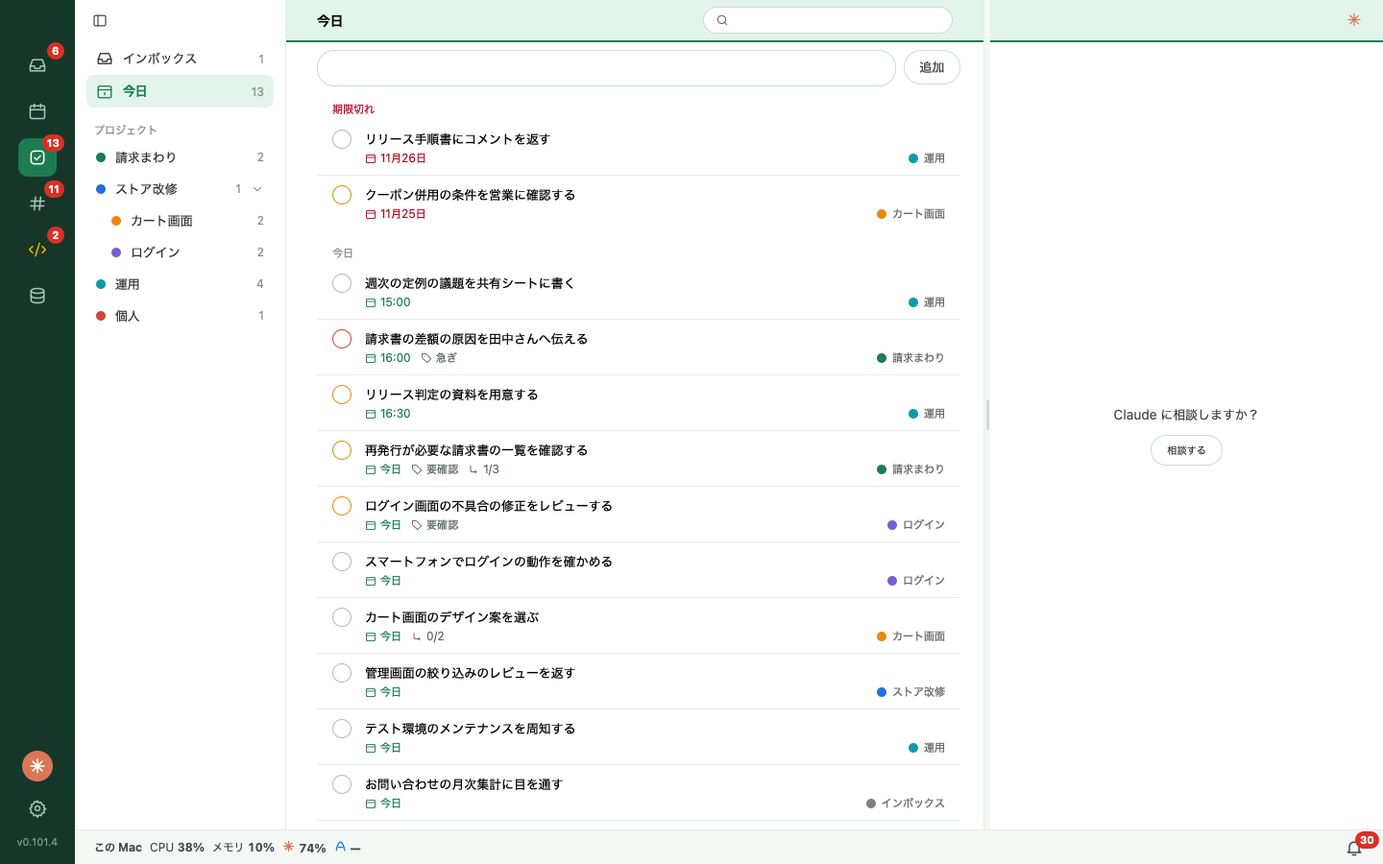
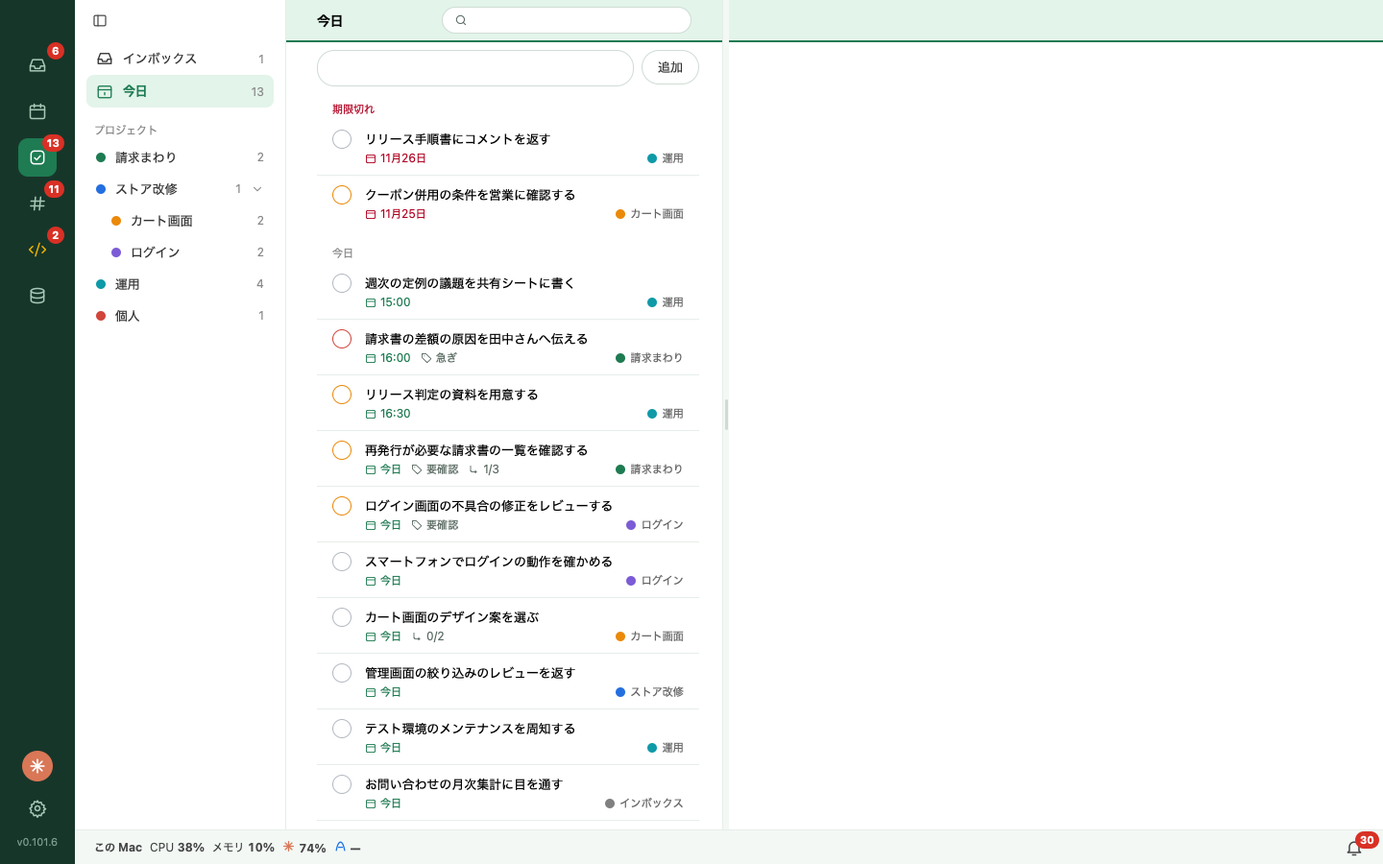
docs: v0.102.0 の CHANGELOG と features を書く
Todo 画面の右側がタスクの詳細のタブになったので、README と docs の Claude のペインの記述と、Todo の写真を直した。
This commit is v0.102.0.

diff --git a/docs/features.md b/docs/features.md
@@ -21,6 +21,7 @@ title: 機能
 - 設定の「Notion」タブで、Notion のワークスペースを連携する。「追加」で既定のブラウザが開き、ワークスペースを選んで許可する。連携したワークスペースは 1 つずつ行になり、ユーザーの名前とメールアドレス、「使える」か「再連携が要る」かを出す。再連携が要るときは、「追加」で同じワークスペースを許可し直す。行のボタンで、確認のあとに解除する（Notion 側の許可も取り消す）。トークンはキーチェーンにだけ置き、画面には出さない。Notion のページを出す画面は、まだない
 - 開発の画面の右のペインの「Jira」で、そのプロジェクトの Jira Cloud（`https://{名前}.atlassian.net`）の接続を、環境とプロジェクトごとに保存する。接続を保存していないプロジェクトで「Jira」を押すと登録の欄が出て、サイトの URL、メールアドレス、API トークンを入れて「保存」を押す。欄の上には、ほかのプロジェクトの接続（プロジェクトの名前と場所、サイト、メールアドレス）が並び、「使う」を押すと、その接続をこのプロジェクトにコピーする（API トークンも、画面に出さずにコピーする。ボードは選び直す。すでに接続のあるプロジェクトには上書きしない）。保存したあとは、バーの歯車で同じ欄を開き、変更と「削除」ができる（「閉じる」で一覧に戻る）。見せるボードもプロジェクトごとに覚える。以前の 1 つだけの接続は引き継がず、起動のたびに消す。メールアドレスがあればアカウントの API トークンで、空ならスコープ付きのトークンで、`api.atlassian.com` を通してつなぐ。トークンを空のまま保存すると、保存済みのトークンを使い続ける。「接続を試す」で、入れた値で誰としてつながるかを Jira に問い合わせ、「接続できました」とユーザーか、「接続できません」を出す（保存はしない。入れた API トークンは、成功しても失敗しても欄に残る）。トークンはキーチェーンにだけ置き、画面には出さない。自分で立てた Jira（Server、Data Center）にはつながらない
 - 開発の画面のファイル欄の上の段の「Jira」のボタンで、右のペインに Jira のスプリントとチケットの一覧を出す（そのプロジェクトの接続を保存してあるとき。保存していないときは、登録の欄を出す）。スクラムボードのスプリント（進行中と予定）ごとに、ボードのランクの順に並べる（バックログは、スプリントを選ぶ欄の最後の「バックログ」を選んだときだけ読んで出す。「すべてのスプリント」はスプリントだけで、スプリントのないボードはバックログを出す）。行は 2 段で、1 段目に題名（2 行まで）、2 段目にキー、ステータス、担当（いなければ「未割り当て」）と、右端に優先度を出す（完了のチケットは題名を薄くする）。ボード（スクラムボードが 2 つ以上あるときだけ選ぶ）、スプリント、ステータスで絞り込め、「再読み込み」で読み直す（間隔を置いた読み直しはしない）。行を 1 回押すと、作業ペインのタブでチケットを開く（タブは分割できるが、別ウィンドウには出せない。書きかけの説明かコメントがあるときは、閉じる前に確かめる）。タブには、親のキー、題名、説明、コメント（古い順）と、右にステータス、担当、スプリント、優先度、ラベル、親を出す。ステータス、担当、スプリント、優先度は、そこで押して変えられる（ステータスは、そのチケットが今選べる変更だけ）。説明は鉛筆で編集して保存でき（Jira 側で変わっていたら、上書きせず断る。Markdown で書けないものは、触っていない部分に残る）、コメントは足せる（直したり消したりはできない）。一覧のプラスから、プロジェクト、種類、スプリント、件名、説明を入れて、新しいチケットを作れる（作ったチケットは、そのタブがチケットのタブになる）
+- 開発の画面のファイル欄の上の段の「Todo」のボタンで、右のペインに Todoist のタスクを出す（プロジェクトを選ぶ欄は「今日」と「インボックス」が先で、続けて Todoist のプロジェクトが並び、「今日」から始まる。行は名前、説明の最初の行、期限で、読むだけ）。行を押すと、作業ペインのタブでそのタスクの詳細を開く（Todo 画面の詳細と同じで、メールのカードとサブタスクのつまみはない。同じタスクは 2 つ開かず、タブは分割も移動もでき、アプリを終了すると消える）。タブを右クリックして「別ウィンドウで開く」を選ぶと、そのタスクのウィンドウに移り、右端のボタンで作業ペインのタブに戻る。タスクを完了か削除したときと、Todoist から無くなったときは、タブを閉じる。タスクは、この部分を出している間と、タスクのタブを開いている間は、Orca の画面でも 10 秒ごとに読み直す
 - 全アカウントの Google Calendar の予定を、1 つの週表示にまとめて表示する（サイドメニューのカレンダーのアイコンで開く）。自分が未定と答えた予定は斜線、まだ返信していない予定は色を反転して表示する。週の始まりの曜日は、設定の「カレンダー」タブで日曜から土曜の中から選べる（初期値は日曜）
 - カレンダー画面の週表示の上の帯は Todo と同じ色で、画面の幅いっぱいに通る。左から、パネルを畳むボタン、「今日」、前後の週の矢印、「2026年11月」の形の月を並べ、右端に Claude のアイコンがある。パネルを畳んでも開いても、帯のボタンは動かない。月を押すと、その下に月のカレンダーが開き、日付を押すとその週を出す（パネルを畳んでいても使える）
 - カレンダー画面の週表示の左にパネルがあり、表示するカレンダーをチェックボックスで選ぶ。アカウントごとに、サイドバーと同じ頭文字の丸とメールアドレスの行の下に、「マイカレンダー」（自分が持ち主のカレンダー）と「他のカレンダー」（追加した他の人のカレンダー、祝日、会議室など）を字下げして並べ、チェックボックスはカレンダーの色になる。アカウントの行を押すと、そのアカウントのカレンダーを畳める。パネルの上には月のカレンダーがあり、日付を押すとその週を出す。切り替えるとすぐ週表示が変わり、選んだ状態はアプリの設定フォルダに保存する（Google 側の表示設定は書き換えない。まだ選んでいないカレンダーは Google 側の表示設定に従う）。帯の左端のボタンでパネルを畳むと、週表示が広がる。MCP サーバーの list_events も、ここで選んだカレンダーだけを読む
@@ -32,7 +33,8 @@ title: 機能
 - Todoist のタスクを、プロジェクト別（Todoist と同じ親子関係でネストする）と「今日」の一覧で表示し、完了・追加・編集（説明とサブタスクを含む）する。説明は Markdown で表示し、10 行を超える説明は 10 行目で折りたたんで「… 続きを表示（残り n 行）」で全文を出し、押すと編集して「保存」で登録する。「今日」で追加した、日付の無いタスクは期限が今日になる。期限は月のカレンダーから選べる（今日は緑の輪で囲む）。一覧の行は 3 段で、タスク名、説明の 1 行目（URL は下線）、期限・ラベル・サブタスクの数（「今日」の一覧では右端にプロジェクト）の順に出す。サブタスクは一覧の行の左のトグルで開閉する。詳細画面の右にプロジェクトと日付を出し、日付はマウスを乗せると出る × で消せる。サブタスクの詳細には、名前の上に直接の親タスクを出し、↩ の「親タスク」で親を開く（左の丸いチェックで、親タスクを完了にできる）。親に説明があれば、親の名前の下にその説明をいつも出す（3 行目で切って「…」を付ける。文字は選んでコピーできる）。詳細画面の右の「ラベル」には、タスクのラベルを色の点と名前で並べ、× で外せる。＋で出る欄で、ラベルを絞り込んでタスクに付け外しし、無い名前は新しく作って付けられる。詳細画面の右上の「編集」メニューから、タスクのリンクや説明（Markdown のまま）をコピーしたり、タスクを削除したりできる（削除は二度押す）。説明は、文字を選んでコピーでき（選んでも編集は始まらない）、マウスを乗せると右上に出るコピーのアイコンでもコピーできる。一覧の行にマウスを乗せると、詳細を開かずに名前・期限・プロジェクトを変えられ、行の左端をドラッグして、左のプロジェクトへ移したり、別のタスクの行に落としてそのタスクのサブタスクにしたりすることもできる（落とせる行は枠で示す。自分自身、自分のサブタスク、今の親には落とせない）。サブタスクは、行にマウスを乗せると出る「親タスクから外す」ボタンか、今いるプロジェクトへのドラッグで、親から外して単独のタスクに戻せる。詳細画面のサブタスクの行（未完了のもの）も、一覧の行と同じく、マウスを乗せると出るボタンとドラッグで、別のプロジェクトへ移す、親から外す、詳細のほかのサブタスクの下へ入れる、ができる。詳細画面の下には、タスクのコメント（投稿者、日時、Markdown の本文、添付ファイル）を一覧し、コメントの追加と、ファイル 1 つ（100 MB まで）の添付ができる（⌘Enter か送信ボタンで送り、Enter は改行になる）。受信トレイのスレッドから「Todo にする」でタスクを作る。Todoist に接続できないときは、前回取得した内容を表示する（Todoist の個人 API トークンを使う。サイドメニューの Todo のアイコンで開き、期限（日付と時刻。時刻の無い日付は 0 時）が来た未完了の件数をそのアイコンに表示する。期限の無いタスクは数えない。接続の状態の確認と解除は、設定の「Todoist」タブで行う。一覧の見出しの ✳ のアイコンから、要約プロンプトの画面を開ける）
 - Todo 画面の左のプロジェクトを右クリックすると、「移動」「アーカイブ」「削除」のメニューが出る（「インボックス」と「今日」には出ない）。「アーカイブ」はすぐにアーカイブする（タスクは Todoist に残る）。「削除」は確認のあとで、プロジェクトをセクションとタスクごと完全に消す（Todoist でも元に戻せない）。「移動」では「一番上の階層」と移せるプロジェクトが並び、選んだプロジェクトの最後のサブプロジェクト（「一番上の階層」なら一番上の最後）になる。プロジェクトの行をドラッグして別のプロジェクトに落としても、そのサブプロジェクトになり、見出し「プロジェクト」に落とすと一番上の階層に移る（自分自身、自分の下のプロジェクト、今の親には落とせない）。どれも、サブプロジェクトも一緒に動く。開いているプロジェクトをアーカイブするか消すと、一覧は「今日」に戻る
 - Todo 画面の見出しの右に、検索欄がいつもある（虫眼鏡のアイコンと、打つと出る × のボタン）。打つのを止めて 0.12 秒たつと、全プロジェクトの未完了のタスクを、名前、説明、ラベルから探し（打った語をすべて含むもの。大文字と小文字は区別しない。完了したタスクは探さない。Todoist には問い合わせず、最後に読み込んだタスクから探す）、一覧の代わりに「全プロジェクトで N 件」と結果の行を出す。行は「今日」の一覧と同じ形で、プロジェクトの名前が付き、当たった文字は色を付けて太字で出す（説明は、当たった行を出す）。完了、名前と日付の編集、移動は、一覧と同じに使える。行を押すと詳細が開き、戻ると結果に戻る。空にするか × を押すと、見ていた一覧に戻る。左のプロジェクトを選ぶと、検索を消してその一覧を出す。見出しの右の検索欄は、トークンの入力欄と下書きのページのあいだは出さない
-- Todo 画面の右側は、トークンの入力欄と下書きのページのあいだを除いて、いつも開いていて、2 段になっている。1 段目は、左の見出しと同じ淡い色の帯で、右端に Claude のアイコンだけがあり、押すたびに Claude のペインを開け閉めする。2 段目は Claude の見出しと操作で、その下が中身になる。右側は Claude のペインだけで、幅は仕切りで画面の 30% から 45% まで変えられる（最初はいちばん狭い画面の 30%）。左の見出しには、Todo そのものの操作（一覧のボタン、戻るボタン、見出し、タスクを開いているあいだの「Orca に渡す」、「編集」）が残る。Claude のペインは、閉じているあいだ「Claude に相談しますか？」と「相談する」だけを出し、Claude Code は動かない（Todo 画面を開いたときは閉じている）。「相談する」か Claude のアイコンで開くと、見出しの「Claude」と「やり直す」の下に Claude Code のターミナルを出して起動し、アイコンでもう一度閉じると Claude Code を終える（「やり直す」で Claude Code を終えて新しく始める）。Claude Code は、`tsunagiai-mcp` で Todoist のプロジェクトとタスクを読み（聞かずに読む）、タスクを足す（足すたびに、ターミナルで聞かれる）。足したタスクは Todo の一覧に出る。Claude Code に渡すのは `tsunagiai-mcp` だけで、組み込みの道具とスキルは渡さない。ペインの案のカードと、頼みを書く欄とモデルと effort の選択欄、「クリア」は無い。窓が狭く、タスクの列が詳細の 2 列の幅に足りないときは、Claude のペインをタスクの下に置き（プロジェクトの一覧は左に残る）、Claude のアイコンはタスクの見出しの「編集」の右に移る。そのときの仕切りは横向きで、ペインの高さを画面の 30% から 45% まで変えられる。窓を広げると右に戻る。Claude Code を使えるときだけ
+- Todo 画面の右側は、タスクの詳細のタブを並べる。左の一覧はいつも残り、行（プロジェクトの一覧、「今日」、検索の結果）を押すと、そのタスクが右のタブで開く（サブタスクの行と親タスクのチップ、フッターの通知のペインの Todo の行も同じ。同じタスクのタブは 2 つ作らず、あるタブを選ぶ。タブのあるタスクの行は名前を太字で出す。戻るボタンはない）。タブの名前はタスクの名前で、× で閉じると、あとのタブ、なければ前のタブを選ぶ。タスクを完了か削除したときと、Todoist から無くなったとき（読み直しで消えた、プロジェクトごとアーカイブか削除された）も、そのタブは閉じる。タブはアプリを終了すると消える。上の帯の右端には、タブを選んでいるあいだ、「Orca に渡す」と「編集」が出る。右側の幅は仕切りで画面の 35% から 65% まで変えられ（最初は 50%）、窓が狭くてタスクの列が 460px に足りなくなるときは、一覧の下に回って高さを変える。トークンの入力欄と下書きのページのあいだは出さず、戻るとタブは残っている。Todo 画面の Claude のペインは、なくした。Claude Code が `tsunagiai-mcp` でタスクを読み、足せることは変わらない（足したタスクは一覧に出る）
+- Todo 画面のタブを右クリックして「別ウィンドウで開く」を選ぶと、そのタスクが自分のウィンドウに移る（別のモニターに置いて、ほかの画面で作業しながら見られる。ウィンドウでも、名前、説明、期限、プロジェクト、ラベル、サブタスク、コメントを同じように読み書きでき、メールのカードとサブタスクのつまみは出ない。同じタスクのウィンドウは 2 つ作らず、一覧の行を押すと、そのウィンドウが前に出る。ウィンドウは Todoist を自分では読まず、Todo 画面の 10 秒ごとの読みを使い回すので、開くウィンドウが増えても Todoist への問い合わせは増えない。右端のボタンでタブを元の場所に戻し、赤いボタンで閉じる。タスクを完了か削除したときは、ウィンドウも終わる）
 - メールの詳細画面の「Slack に投稿」（# のアイコン）で、スレッドの右に Slack に投稿するペインを開け閉めする（左との仕切りで、画面の 33% から 50% まで幅を変えられる。ペインに Claude は無い）。ペインの上の段は投稿先のチャンネルのボタンで、押すと、ワークスペースごとにまとめたチャンネルの一覧が開き、上の欄に打った文字でチャンネルの名前を絞り込める（Enter で先頭のチャンネルを選ぶ）。ワークスペースが無いときは、一覧の代わりに設定の「Slack」タブを開くボタンを出す。下の段は空の入力欄と「送信」で、メールの内容は入らない。Enter は改行、⌘Enter（Windows は Ctrl+Enter）か「送信」で、選んだチャンネルに書いたままの文を投稿する（スレッドへの返信にはしない）。投稿できたら欄を空にして「#{チャンネル} に投稿しました」と出し、失敗したときはエラーを出して文を残す。別のメールを開くと欄は空になる。最後に投稿したチャンネルは、アプリを終了するまで、次に開いたときに初めから選ばれている（ファイルには保存しない）。複数のワークスペースを持て、トークンはサイドメニューの設定で追加する
 - サイドメニューにアカウントのアイコンは出さない（Google のアカウントの状態、未読の件数、再ログイン、削除は設定の「Google」タブで、Slack のワークスペースの状態は設定の「Slack」タブと右下のカードで見る）
 - サイドメニューの画面のボタンは、⌘1 から ⌘6 で上から順に押せる（Windows は Ctrl。押せないボタンは何もしない）。ボタンにマウスを乗せると、名前と番号（「Slack ⌘3」など）を出す。設定のボタンの下に、いま動いている版を小さく出す
@@ -88,7 +90,7 @@ title: 機能
 - 開発の画面のファイル欄の上の段の「ファイル」と「履歴」のアイコンで、ファイルの木と git の履歴を切り替える。履歴は worktree のコミットを新しい順に並べ（件名、短い ID、日時）、末尾までスクロールすると続きを読む。コミットを押すと、その下に、そのコミットで変わったファイルを、変わり方（M、A、D、R、C）、名前、フォルダ、増えた行と消えた行の数で出す。ファイルをダブルクリックする（か Enter を押す）と、親のコミットのファイルを左、そのコミットのファイルを右にした差分を、作業ペインのタブで出す（見た目とボタンは HEAD との差分と同じ。タブの名前にはコミットの短い ID が付く）。履歴を出しているときは、約 10 秒ごとに、またウィンドウにフォーカスが戻ると、新しいコミットを読み直す
 - Orca のエディタ（ソースの表示）で、言語サーバーが受け持つ言語のファイルの名前を ⌘ を押しながら右クリックすると、言語サーバーでその定義を探し、エディタのタブの真下に割ったペインの「定義 ・ {名前}」のタブに候補を並べる（サーバーは言語サーバーの欄の「使う」か「Claude に頼む」で足す。受け持つサーバーが無い言語と、⌘ なしの右クリックは今までどおり。タブはプロジェクトに 1 つで、次に探すと中身が置き換わる）。⌘ を押している間、マウスを名前の上に 0.15 秒置くと、定義がある名前に下線が引かれ、カーソルが指の形になる（押しても開かない）。候補の行には、ファイル名と行、worktree の中のフォルダを出し、worktree の外（gem）の定義には gem の名前と版、Ruby のファイルには「gem」の印を出す。どの行も初めから開いていて、定義の前後 3 行を出し、「開く」で作業ペインのタブに開いて定義の行へ移る（worktree の外のファイルは読み取り専用のタブで開き、保存しない）。ファイル欄の上の段の「言語サーバー」のボタンで、リポジトリごとのサーバーの欄に切り替える。サーバーは言語ごとに 1 つ持てる（何も保存していないリポジトリには無く、Ruby も「使う」で足すまでは無い）。欄を出すと、worktree にある言語（Ruby、Rust、TypeScript と JavaScript、Go、Python）を、印のファイル（`Gemfile.lock`、`Cargo.toml`、`package.json`、`go.mod`、`pyproject.toml` など）から見つけ、その言語のサーバー（ruby-lsp、rust-analyzer、typescript-language-server、gopls、pyright か pylsp）を、動かす場所（compose のサービスか、ホスト）で探す。欄には言語ごとのカードが並び、カードに言語のアイコンと名前、状態（索引中、動作中、停止中。点は黄、緑、灰、失敗の赤）、「{サーバーの名前} ・ {動かす場所}」の行、メニュー（再起動、止める、削除、手で直す）を出す。「手で直す」で、サービス（候補が 2 つ以上のとき）、起動コマンド、パスの対応、「自動で起動」、「自動に戻す」の欄が開き、欄を離れるとリポジトリごとに設定フォルダの `lsp-settings.json` に保存する（起動コマンドを書かなければ、アプリが見つけたサーバーに従う）。見つけた言語でサーバーを持たないものは点線のカードで出る。サーバーが見つかったものは「使う」で足し（「使わない」は、その worktree を出している間だけ隠す）、見つからないものは「Claude に頼む」、コンテナが止まっているものは「コンテナを起動」を出す。見出しの ✦ か「Claude に頼む」で、作業ペインに Claude Code のタブを開き（「Claude を起動」と同じ。同じ頼みをもう一度押すと、開いているタブを選ぶ）、worktree を見て `tsunagiai-mcp` でサーバーを設定してもらう（入っていないサーバーは入れる前に聞き、書き込みのたびに確かめる。保存した環境の worktree では、その PC のサーバーにつながっていなければ断る）。保存した環境の worktree には、この Mac の `~/.ssh/config` の Host から選ぶ「ssh の接続先」が付く。欄を出している間は 2 秒ごとに設定を読み直すので、Claude Code が `tsunagiai-mcp` で変えた設定がそのまま出る。起動の方法は worktree から決める。compose のファイルがあれば worktree をマウントしているサービスで `docker compose exec` し、なければホストで動かす（Ruby は `Gemfile.lock` に ruby-lsp があるときだけ。起動コマンドを書かなければ、見つけたサーバーを動かす。言語の表に無い言語は、起動コマンドを書く。保存した環境の worktree は、この Mac の `ssh` で接続先のマシンで動かす）。「自動で起動」が入っていれば、そのサーバーが受け持つ言語のファイルを開いたときに起動し、その worktree のタブ（セッション、ターミナル、ファイル、差分、定義）がひとつも開いていないとき、worktree が Orca の一覧から消えたとき、アプリを終了したときに止める。「止める」で止めたサーバーは、再起動かコンテナの起動を押すまで起動しない。サービスのコンテナが止まっているときは「コンテナを起動」が出て、押すとコンテナを起動してからサーバーを起動する（アプリが自分でコンテナを起動することはない）。定義を探す前に、ディスクで変わった、そのサーバーが受け持つ言語のファイルをサーバーに知らせる
 - 開発の画面のファイル欄の見出しのブランチ名を押すと、真下にブランチの一覧が開き、選んだブランチに worktree を切り替える。一覧の一番上の「worktree」には、プロジェクトの git の worktree（Orca が隠すもの、たとえば `git worktree add` で `.claude/worktrees/` の下に作ったものも含む。SSH の接続先のものは出さない）を、フォルダの名前とブランチで並べ、Orca の一覧に無いものには「git」の印、ファイル欄が出しているものには印を付ける。選ぶと、ファイル欄がその worktree の見出し、ブランチ、履歴、ファイルに切り替わる（ほかのタブかプロジェクトを選ぶと、タブの worktree に戻る）。一覧はローカルのブランチを先に出し、「worktree」の欄は読み込めしだい一番上に足す（開き直しても 10 秒は読み直さない）。「worktree」の欄の下は「ローカル」と「リモート」に分かれ（見出しにアイコンと件数が付く）、今のブランチに印が付く。リモートは、この一覧から最近選んだブランチを先頭にして 5 件だけ出し、「ほか n 件を表示」を押すと残りが開く。別の worktree で使っているブランチは薄く出て選べない。上の欄に打つと絞り込み、リモートはその文字で探す。リモートのブランチを選ぶと、それを追うローカルのブランチを作って切り替える。切り替えるとファイル一覧と見出しを読み直し、開いているタブはそのまま残る。ターミナルなど、アプリの外でブランチが変わったときも、見出しとファイル一覧が追いつく（保存したサーバーでも同じ）。コミットしていない変更があるときなど、Orca が断ったときはその文言を出す
-- 開発の画面の作業ペインのタブを右クリックして「別ウィンドウで開く」を選ぶと、Claude のセッション、ターミナル、ファイル、スクラッチパッド、差分、定義、データベースのタブが、自分のウィンドウに移る（別のモニターに置いて、ほかの画面で作業しながら見られる。タブはペインから外れ、ウィンドウには、状態のアイコンとタブの名前、最前面に固定するピン、右端のタブを元のペインに戻すボタンが並び、2 つのボタンにマウスを乗せるとツールチップが出る。赤いボタンはタブを閉じる。ファイルは出す前に保存し、保存に失敗したときはウィンドウを作らない。出したタブを左の一覧から押すと、そのウィンドウが前に出る。ウィンドウに出したセッションが止まっても、確認待ちの数は付かない。位置と大きさは覚えず、アプリを終了すると閉じる）
+- 開発の画面の作業ペインのタブを右クリックして「別ウィンドウで開く」を選ぶと、Claude のセッション、ターミナル、ファイル、スクラッチパッド、差分、定義、データベース、Todo のタスクのタブが、自分のウィンドウに移る（別のモニターに置いて、ほかの画面で作業しながら見られる。タブはペインから外れ、ウィンドウには、状態のアイコンとタブの名前、最前面に固定するピン、右端のタブを元のペインに戻すボタンが並び、2 つのボタンにマウスを乗せるとツールチップが出る。赤いボタンはタブを閉じる。ファイルは出す前に保存し、保存に失敗したときはウィンドウを作らない。出したタブを左の一覧から押すと、そのウィンドウが前に出る。ウィンドウに出したセッションが止まっても、確認待ちの数は付かない。位置と大きさは覚えず、アプリを終了すると閉じる）
 - サイドメニューのシリンダーのアイコンでデータベースの画面を開き、MySQL（5.7、8.0、8.4）のデータベースを閲覧し、SQL で書き換える。左の「接続」の一覧の＋で接続を足し、行を右クリックして出るメニューの「編集」「切断」「削除」で直す（削除は確認のあと）。＋と「編集」は、作業ペインの代わりに編集ペインを開き、見出しの右端に右のペイン（下のターミナルのペイン）を開け閉めするアイコンを、欄の下の段の左端に「接続をテスト」、右端に「キャンセル」「保存」を出す。接続は、接続名、ユーザー名、パスワード、DB のホスト、ポート（初めは 3306）と、空のままでもよい「事前スクリプト」で登録する。事前スクリプトは、ログインの前にこの Mac で子プロセスとして動き（シェルは通さず、1 行目の `#!` で動かすものを決める。無ければ `/bin/sh`）、接続のホストとポートで待ち受ける（たとえば AWS Systems Manager のポートフォワード。ポートは環境変数 `TSUNAGIAI_PORT` でも渡す（改名の前の名前の `COOKAPPS_PORT` にも同じ値を入れる）。アプリの PATH はシェルのものと違うので、`aws` などのコマンドはパスで書く）。スクリプトを動かす前からそのホストとポートで何かが応えるときは、スクリプトを動かさずに、使われていると伝える。アプリはそのホストとポートにつながるまで最長 2 分待ち、そこで MySQL にログインする。待っているあいだ、接続の行の下に、スクリプトが最後に出力した 1 行を出す（出力がまだないときは「接続中…」で、接続が済むか失敗すると消える）。準備ができる前にスクリプトが終わったときと、2 分で準備できないときは、スクリプトの標準エラーの最後の行を添えて伝える。右のペインのタブの帯の先頭には「Claude」のタブがあり、作業ペインと編集ペインのどちらのアイコンで右のペインを開いても、Claude Code が動いていなければ、このタブで起動する。アプリが自分で開いたターミナルで、Orca を通さずに Claude Code を動かし、MCP サーバーは `tsunagiai-mcp` だけを渡す。スクリプトを試せるように Bash などの組み込みの道具も使え、書き込む道具とコマンドは使う前に Claude Code が確かめる。右のペインを閉じても、画面を離れても、編集ペインを閉じても Claude Code は動き続け、開き直すと同じものが出る。Claude タブの × を押すか、Claude Code が終了コード 0 で終わるとタブが消え、ほかにタブがなければ右のペインも閉じる（次に開くと起動し直す）。0 以外の終了コードで終わったときは、× を押すまでタブとメッセージが残る。データベースの画面を出している間は、接続の一覧を約 2 秒ごとに読み直すので、Claude Code が `tsunagiai-mcp` で保存した接続は、すぐ一覧に出る（一覧が変わらないときは描き直さない）。編集ペインを開いている間に、Claude Code が `tsunagiai-mcp` で同じ接続を保存すると、手で直していない欄にその内容を読み込む。パスワードは OS のキーチェーンに保存し、画面には出さず、保存済みかどうかだけを出す（編集で欄を空にすると、保存したものを使う）。「接続をテスト」で、保存せずに、入力したとおりにつないで MySQL のバージョンか失敗の理由を出す（アプリで開いている接続を、開いたときと同じユーザー、スクリプト、ホスト、ポートでテストするときは、スクリプトを動かし直さずに、開いている接続の道でつなぐ）。サーバーが TLS を使えるときは使い、この Mac 以外のホストへの接続は、スクリプトの有無によらず TLS を必須にする（証明書は確かめない）。接続の一覧は名前の順に並び（大文字と小文字は区別せず、同じ名前は作った順）、その行を押すと接続を開き、下にデータベース、その下にテーブル（ビューを含む）が並ぶ。接続の行の点は、接続済みで緑、接続中でオレンジ、未接続で灰色になる。作業ペインの上にはタブの列があり、先頭の閉じられない「オブジェクト」のタブに、押したデータベースのテーブルの一覧を出す。データベースを押すと「オブジェクト」に移り、「テーブル」にテーブルの一覧（名前、行数（概算）、サイズ、エンジン）を出す。一覧の行を押すか Enter で、そのテーブルを開く。データベースの行を右クリックすると、「新規クエリ」（そのデータベースのクエリのタブを空の欄で開く）と「データベースを閉じる」（接続は切らずにツリーを閉じる）が出る。接続はアプリを終了するか、「切断」、接続の編集、削除で閉じ、事前スクリプトも一緒に止める（「切断」は、開きかけの接続にも出て、待っているスクリプトを止める）。接続やデータベースの下に出るエラーは、右端の × で消せる（表示だけを消し、接続の状態は変えない）。テーブルを押すと、テーブルごとのタブを列に開き（開いていればそのタブに移る）、「レコード」「構造」のタブを出す。列の右端の ＋（かデータベースの行の「新規クエリ」）で、クエリのタブ「無題 @{DB}」を開く。上の入力と下の結果は間の線をドラッグして高さを変えられ、入力と結果はタブごとに持ち、上のセレクトで接続とデータベースを変えられる。テーブルのタブは × で閉じ、レコード、構造、選んでいたタブを、タブを閉じるかアプリを終了するまでタブごとに覚える（接続を切るか、データベースを閉じると、その中のタブも閉じる）。「レコード」は 100 行ずつ出し、フッターの左に再読み込みとコピーのアイコンと行の範囲と行数の概算、右に「最初のページ」「前のページ」、ページ番号の欄（番号を入れて Enter でそのページを開く）、行数の概算から出したページ数（「/ 約 15,062」。概算なので、最後のページが空だったり続きがあったりする）、「次のページ」「最後のページ」を出す（NULL、数値、バイナリ（大きさだけ）を見分けて出し、200 文字を超える文字列は 200 文字で切る）。「構造」は列の名前、型、NULL、キー、既定値、注釈と、列の数、エンジン、文字セットを出す。クエリのタブは、書いた文を「実行」で上から全部、`;` で区切って 1 文ずつ順に動かし（引用符とコメントの中の `;` では区切らない。100 文まで。途中で失敗した文で止め、その前の文はすでに確定している。MySQL が実行するコメント（`/*!40101 SET NAMES utf8 */;` など）は、文として動かす。文が 2 つ以上で、時間切れや接続の切断で途中で止まったときは、「n 文目で止まりました（それまでの m 文は済んでいます）。」を添える）、結果を表で 1 文ごとに先頭の 1,000 行まで、行数と時間とともに出す（文が 2 つ以上のときは、結果のタブ「1: 2 行」「2: 3 行を変更」を出し、失敗した文があれば最後に「n: エラー」のタブに理由を出す。文が 1 つのときは、タブを出さない）。文は MySQL にテキストのまま送るので、`PREPARE`、`EXECUTE`、`DEALLOCATE PREPARE` も通る。SELECT は 30 秒で MySQL が止め、1 文が 35 秒で終わらないときは接続を閉じる。INSERT、UPDATE、DELETE などの書き込みの文もそのまま実行し、すぐに確定する（確認はせず、元に戻せない。接続のユーザーの権限で動く）。行を返さない文は、フッターに「3 行を変更 / 12 ms」のように変えた行の数を出す。レコード、構造、SQL の一覧は外枠と縦横の罫線を引き、見出しに背景色を付け、見出しの縦線をドラッグして列の幅を変えられる（幅はアプリを閉じるまで覚える）。フッターのコピーのアイコンで、出している一覧を見出し付きのタブ区切りでコピーする（スプレッドシートにそのまま貼れる。値は画面に出ている形のまま）。コピーの右の「CSV に書き出す」で、結果を出した 1 文の SQL をもう一度実行し、全行を省略せずに、保存先を選んで CSV に書き出す（画面の 1,000 行と 200 文字の制限はかからない。押せるのは、1 文の SQL で列のある結果を出しているときだけ。UTF-8、カンマ区切り、改行は CRLF、1 行目は列名、NULL は空の欄、2 進の値は `0x` で始まる 16 進。開発の画面のファイル欄のデータベースの SQL のタブにも同じボタンがある）。作業ペインのヘッダーの右端のアイコン（編集ペインでは見出しの右端のアイコン）で、右にターミナルのペインを開け閉めする（境目はドラッグで幅を変える。編集ペインを開いている間も、そのまま残る）。ペインの＋で Orca の worktree を選ぶと、そこで Orca の普通のターミナルを開く。開いたターミナルはタブで切り替え、タブの × で閉じる（開発の画面のタブと同じく、Orca のターミナルを閉じる）。レコードのタブでは、セルをダブルクリックして書き換え、行に削除の印を付け、＋ で空の行を足し、「変更 n 件」として溜めて、✓ でまとめて確定する（✓ を押すまでは何も送らない。✗ で全部戻す。キーのない表は追加だけできる。変更を溜めているあいだはページの移動を止め、別の表や画面へ移るときは捨てるかどうかを確かめる）
 - 開発の画面の右のペインのバーの「データベース」のアイコンで、データベースの画面と同じ接続の一覧と、開いた接続のデータベースとテーブルのツリーを出す（接続の行の右クリックで「切断」（開きかけの接続にも出る）、データベースの行の右クリックで「新規クエリ」と「データベースを閉じる」）。ツリーでテーブルを押すと、左の作業ペインに、ターミナルと並ぶタブ「テーブル名 · 接続名」として「レコード」「構造」「SQL」を開く（レコードの書き換えはデータベースの画面だけで、ここは読むだけ）。タブは分割でき、保存しない
 - 設定の「フォント」タブで、画面ごとに書体と大きさを選ぶ。メール、カレンダー、Slack は画面ごとに、Todo は左のプロジェクト一覧と右の作業スペースを別々に、Orca はプロジェクト一覧、作業スペース（チャットとファイル）、作業スペース（ターミナル）、エディタを別々に選べる。「アプリ全体」では、設定画面、サイドメニュー、ポップアップなど、画面ごとの場所に入らない部分の書体と大きさを選び、「等幅の文字」では、コード、プロンプト、差分の書体を選ぶ。テキスト形式のメールの本文は、メールの画面の書体と大きさで出す。HTML のメールの本文は、メールが指定した書体のまま出す。選んだ書体はすぐに画面に出る。初めはどの画面も今までと同じで、Orca の作業スペースだけは Ghostty の設定に従うこともできる

diff --git a/docs/mcp.md b/docs/mcp.md
@@ -10,7 +10,7 @@ stdio で動き、ネットワークのポートは開きません。
 データベースの画面の Claude タブでは、アプリが自分の中の `tsunagiai-mcp` を Claude Code に渡すので、この文書の設定は要りません（[Claude](claude-integration.md#データベースの画面で-claude-code-を動かす)）。
 開発の画面の言語サーバーの欄の ✦ と「Claude に頼む」から開く Claude Code のタブにも、アプリが言語サーバーのプラグインを付け、`tsunagiai-mcp` を渡すので、設定は要りません。そのタブの Claude Code が、`lsp_settings` と `lsp_server_save` で、サーバーを設定します（[Claude](claude-integration.md#orca-の言語サーバーの欄で-claude-code-を動かす)）。
 `--lsp-local`（この Mac）で出すのは、言語サーバーの 4 つのツールだけで、`--lsp`（Orca に保存した接続先の PC）で出すのは、`lsp_settings`、`lsp_server_save`、`lsp_server_delete` だけです。`--lsp-plugin` は、その PC にプラグインのフォルダを書いて、パスを 1 行で出します。これらの引数は、ほかの引数と一緒には使えません。
-Todo 画面の Claude のペインと、カレンダー画面の Claude のペインと、新しいメール、Slack のスレッド、Todo の案のページ、要約プロンプトの画面、設定の「スキル」タブの Claude Code にも、アプリが `tsunagiai-mcp` を渡すので、設定は要りません。カレンダー画面では、`list_events` と `list_calendars` で予定とカレンダーを読み、`calendar_set_shown` で表示するカレンダーを切り替え、`calendar_create_event`、`calendar_update_event`、`calendar_delete_event` で予定を作り、書き換え、削除し、`calendar_show_slots` で空き時間の候補を週の上に描きます。Todo 画面では `todoist_projects`、`todoist_tasks`、`todoist_add_task` で Todoist を読んでタスクを足します。Slack のスレッドでは `slack_thread_read` でスレッドを読み、新しいメールと Slack のスレッドでは `screen_read` と `screen_write` で欄を読み書きします。「スキル」タブでは `skill_list`、`skill_get`、`skill_save` でスキルを読んで保存します（[Claude](claude-integration.md#todo-の-claude-ペインで-claude-code-を動かす)、[Slack](slack.md#スレッドの-claude-code)）。
+カレンダー画面の Claude のペインと、新しいメール、Slack のスレッド、Todo の案のページ、要約プロンプトの画面、設定の「スキル」タブの Claude Code にも、アプリが `tsunagiai-mcp` を渡すので、設定は要りません。カレンダー画面では、`list_events` と `list_calendars` で予定とカレンダーを読み、`calendar_set_shown` で表示するカレンダーを切り替え、`calendar_create_event`、`calendar_update_event`、`calendar_delete_event` で予定を作り、書き換え、削除し、`calendar_show_slots` で空き時間の候補を週の上に描きます。`todoist_projects`、`todoist_tasks`、`todoist_add_task` で Todoist を読んでタスクを足すのは、この文書で登録した Claude Code です（Todo 画面には Claude のペインはありません）。Slack のスレッドでは `slack_thread_read` でスレッドを読み、新しいメールと Slack のスレッドでは `screen_read` と `screen_write` で欄を読み書きします。「スキル」タブでは `skill_list`、`skill_get`、`skill_save` でスキルを読んで保存します（[Claude](claude-integration.md#todoist-のタスクを-claude-code-から扱う)、[Slack](slack.md#スレッドの-claude-code)）。
 開発の画面の「Claude を起動」と「Orca に渡す」で始める Claude Code には、アプリがプレビューのプラグインを付け、`tsunagiai-mcp --preview` を渡します。`--preview` で起動した `tsunagiai-mcp` が出すのは、HTML のプレビューを開く `preview_open` だけです（[Orca](orca.md#claude-code-が開くプレビュー)）。
 開発の画面のリーダーにも、アプリが `tsunagiai-mcp` を渡します。チームメイトのセッションを起動して終えるツールは、リーダーにだけ出し、この文書の設定で登録したクライアントには出ません（[Claude](claude-integration.md#開発の画面のリーダーで-claude-code-を動かす)）。
 

diff --git a/CHANGELOG.md b/CHANGELOG.md
@@ -3,6 +3,14 @@
 The newest version comes first.
 The project was named cookup until v0.14.6, and cookapps until v0.80.0.
 
+## v0.102.0
+
+T-10: Todo 画面の右側を、Claude のペインから、タスクの詳細のタブにした（#1517）。左の一覧はそのまま残り、行を押すと、右にそのタスクのタブが開く。同じタスクのタブは 2 つ作らず、タブのあるタスクの行は名前を太字にする。× で閉じると隣のタブを選び、完了か削除したタスクと、Todoist から無くなったタスクのタブも閉じる。右側の幅は 35% から 65% の間で変えられ、窓が狭いときは一覧の下に回る。Todo 画面の Claude のペインと、「Claude に相談」のアイコンはなくした。Claude Code が `tsunagiai-mcp` でタスクを読み、足せることは変わらない。保存するファイルは増えない。
+
+T-11: Todo のタブを右クリックして「別ウィンドウで開く」を選ぶと、そのタスクが自分のウィンドウに移る（#1518）。別のモニターに置いて、ほかの画面で作業しながら見られる。ウィンドウでも、説明、期限、ラベル、サブタスク、コメントを同じように読み書きでき、右端のボタンで元のタブに戻る。ウィンドウは Todoist を自分では読まず、Todo 画面の 10 秒ごとの読みを使い回すので、ウィンドウを開いても Todoist への問い合わせは増えない（#1521）。
+
+A-49: 開発の画面のファイル欄の上の段に「Todo」のボタンを足し、右のペインに Todoist のタスクを出すようにした（#1519）。プロジェクトを選ぶ欄で「今日」やプロジェクトのタスクを読み、行を押すと、作業ペインのタブでそのタスクの詳細を開く。タブは分割も、別ウィンドウに出すこともできる。Orca のタブで説明を編集した後の描き方と、説明の編集中の状態を、タスクごとに持つようにした（#1517、#1519）。
+
 ## v0.101.6
 
 開発の手順を直しただけの版（#1511）。アプリの動きは変わらない。

diff --git a/docs/index.md b/docs/index.md
@@ -23,7 +23,7 @@ title: つなぎAI
 Todoist に接続すると、タスクをプロジェクト別と「今日」の一覧で表示し、完了・追加・編集できます。タスクのラベルも付け外しでき、新しいラベルも作れます。
 タスクの詳細では、Todoist のコメントを読み、コメントの追加とファイルの添付もできます。
 受信トレイのスレッドから「Todo にする」でタスクを作ることもできます。
-Claude が使えるときは、Todo 画面の右側の Claude のペインが Claude Code のターミナルで、やりたいことを伝えると、Todoist のプロジェクトとタスクを読み、タスクを足します。足すときは、そのたびにターミナルで聞かれ、足したタスクは一覧に出ます。
+Todo 画面の右側は、タスクの詳細のタブです。一覧の行を押すとタスクがタブで開き、一覧は左に残ります。タブを右クリックして「別ウィンドウで開く」を選ぶと、そのタスクを自分のウィンドウに出せます。開発の画面のファイル欄の「Todo」からも、タスクを作業ペインのタブで開けます。
 Todoist に接続できないときは、前回取得した内容を表示します。
 サイドメニューには、未読の件数と今日の Todo の件数を表示します。
 どの画面でも、下のフッターのベルに、メールと Slack の未読、通知中の予定、期限が来た Todo のタスクの合計が出ます。押すと「通知」のペインが開き、「すべて」「メール」「Slack」「予定」「Todo」のタブで種類を切り替えて、新しい順に見られます。メールと Slack のメッセージからは、ゴミ箱へ移動、アーカイブ、既読にする、ウォッチ、スレッドを開くができ、予定と Todo のタスクは、押すとカレンダーの予定の詳細と Todo の詳細を開きます。

diff --git a/README.md b/README.md
@@ -59,8 +59,8 @@ Slack のスレッドは横のペイン、Todo は詳細の下のペインに、
   <tr>
     <td width="50%" valign="top">
       <strong>Todo</strong><br />
-      Todoist のタスクを、期限が来たものから順に。メールからも、右のペインの Claude に頼んでも作れます。<br /><br />
-      <img src="docs/assets/readme/todo.png" alt="今日のタスクの一覧と、右の Claude のペイン" />
+      Todoist のタスクを、期限が来たものから順に。メールからも作れます。タスクは右のタブで開き、別ウィンドウにも出せます。<br /><br />
+      <img src="docs/assets/readme/todo.png" alt="今日のタスクの一覧。右はタスクの詳細を開くタブ" />
     </td>
     <td width="50%" valign="top">
       <strong>Slack</strong><br />
